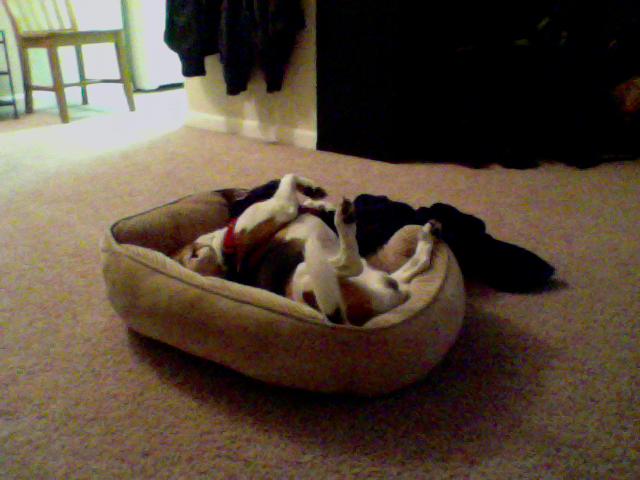
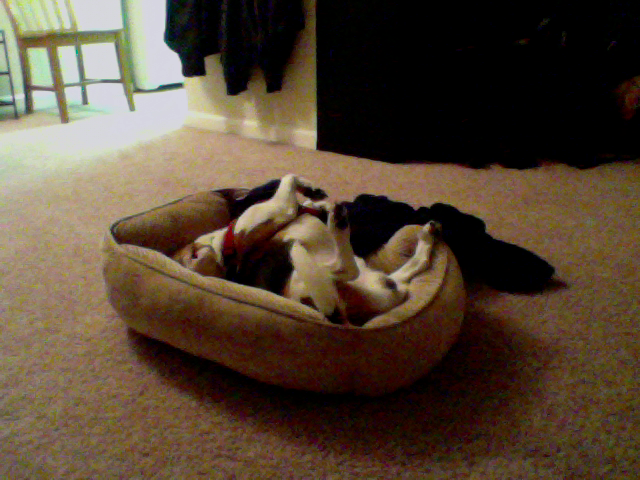
update at Month05Day07Time20:50

diff --git a/index.html b/index.html
@@ -39,8 +39,8 @@
       <!-- Example row of columns -->
       <div class="row">
         <div class="col-md-4">
-	<p>This picture was updated at Month05Day07Time20:49</p>
-		<img src="1_pic.png" />
+	<p>This picture was updated at Month05Day07Time20:50</p>
+		<img src="3_pic.png" />
         </div>
       </div>
 
